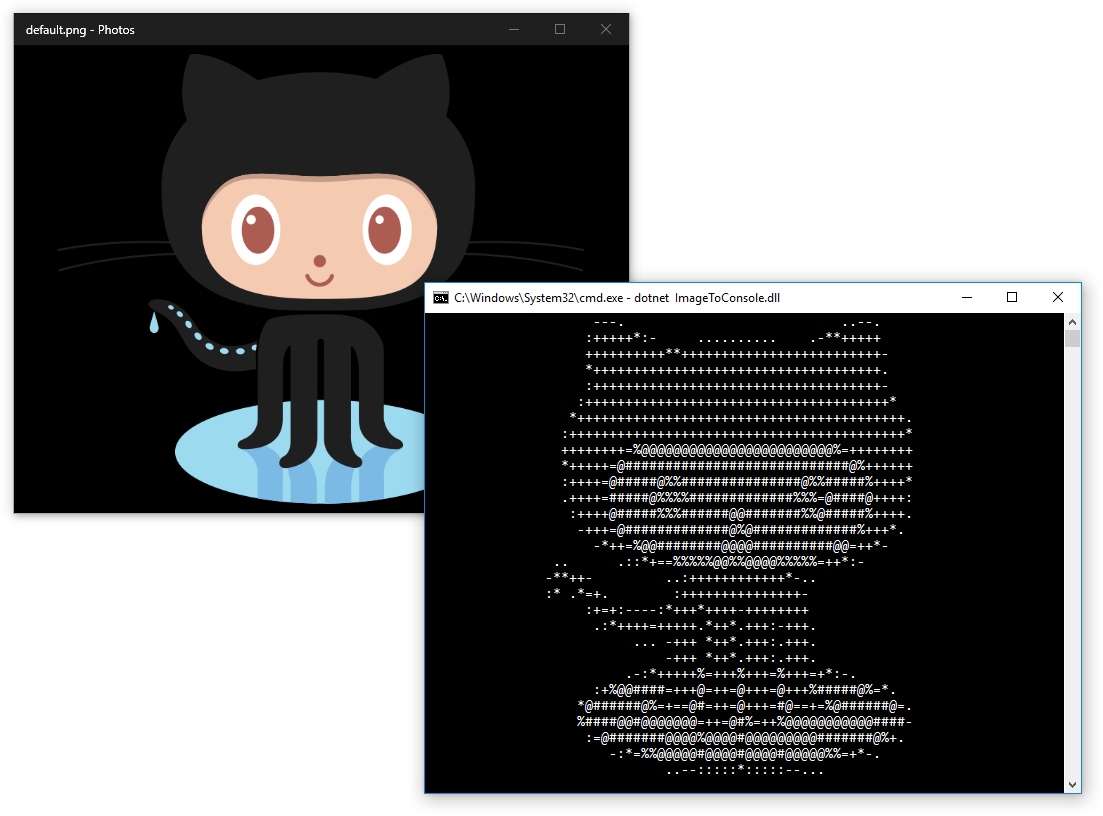
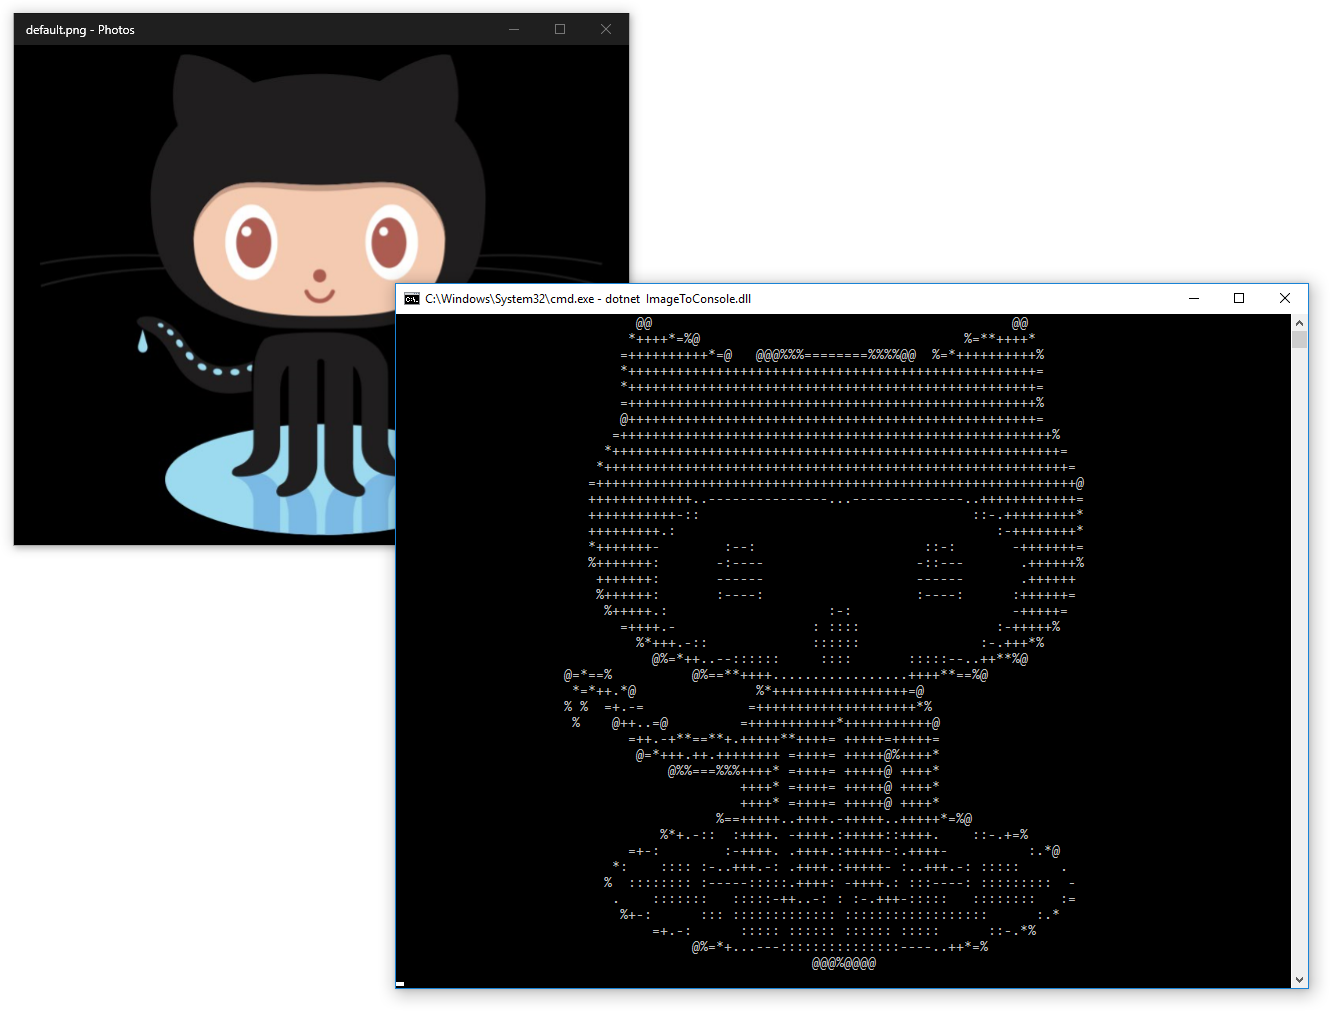
Updated Alpha Interpretation

diff --git a/src/ImageToConsole/Program.cs b/src/ImageToConsole/Program.cs
@@ -8,7 +8,7 @@ namespace ImageToConsole
 {
     internal class Program
     {
-        private static readonly string[] Characters = {" ", ".", "-", ":", "*", "+", "=", "%", "@", "#"};
+        private static readonly string[] Characters = { "#", "@", "%", "=", "+", "*", ":", "-", ".", " " };
 
         private static void Main(string[] args)
         {
@@ -38,6 +38,10 @@ namespace ImageToConsole
                         Console.ForegroundColor = GetColor(pixel.Rgb);
 
                     var pixelBrightness = ((pixel.R + pixel.G + pixel.B) / 3 + pixel.A) / 2;
+
+                    if (pixel.A < 50)
+                        pixelBrightness = 255;
+
                     var characterForPixel = Characters[(pixelBrightness * Characters.Length - 1) / 255];
                     Console.Write(characterForPixel);
                 }
